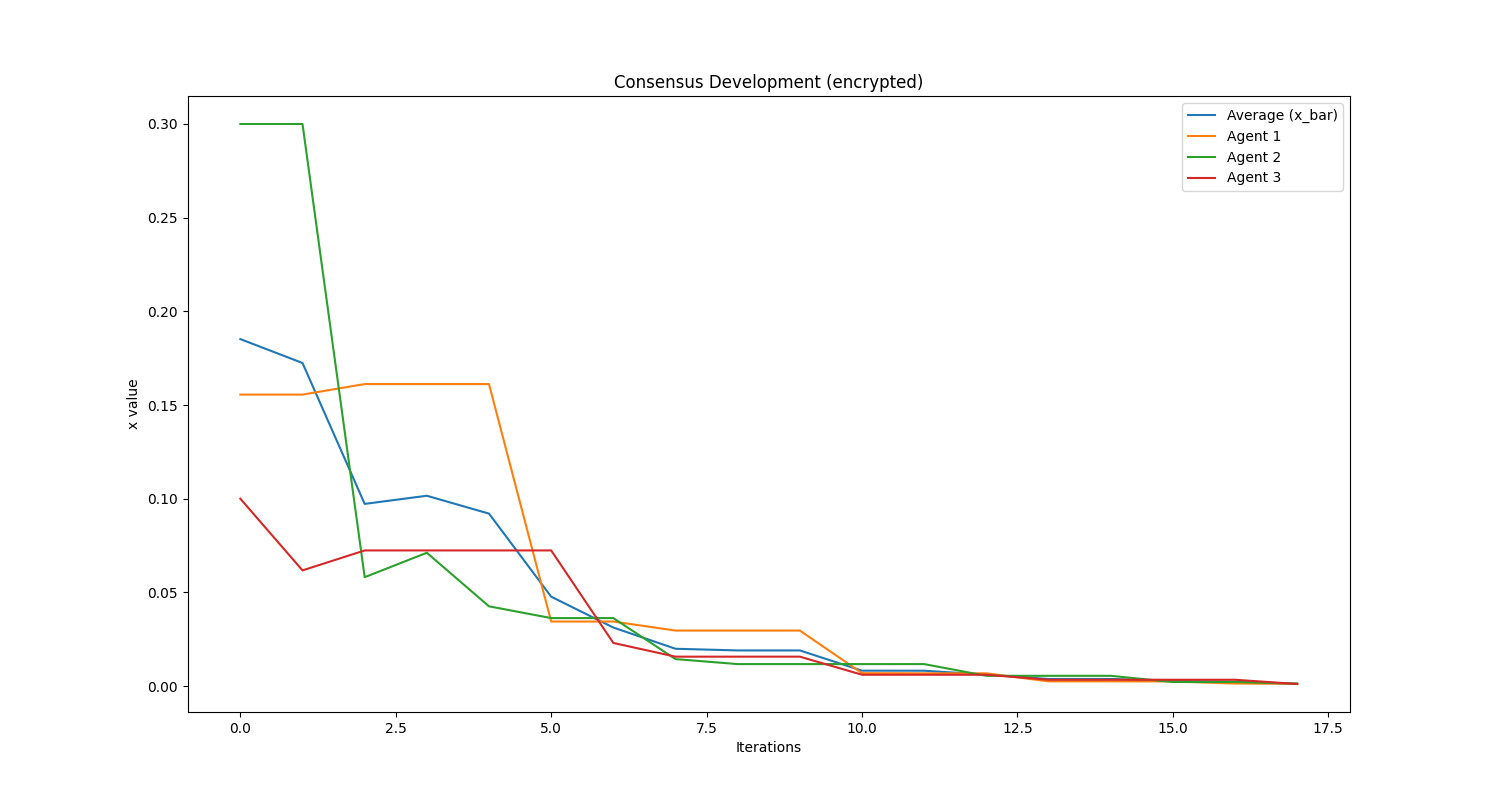
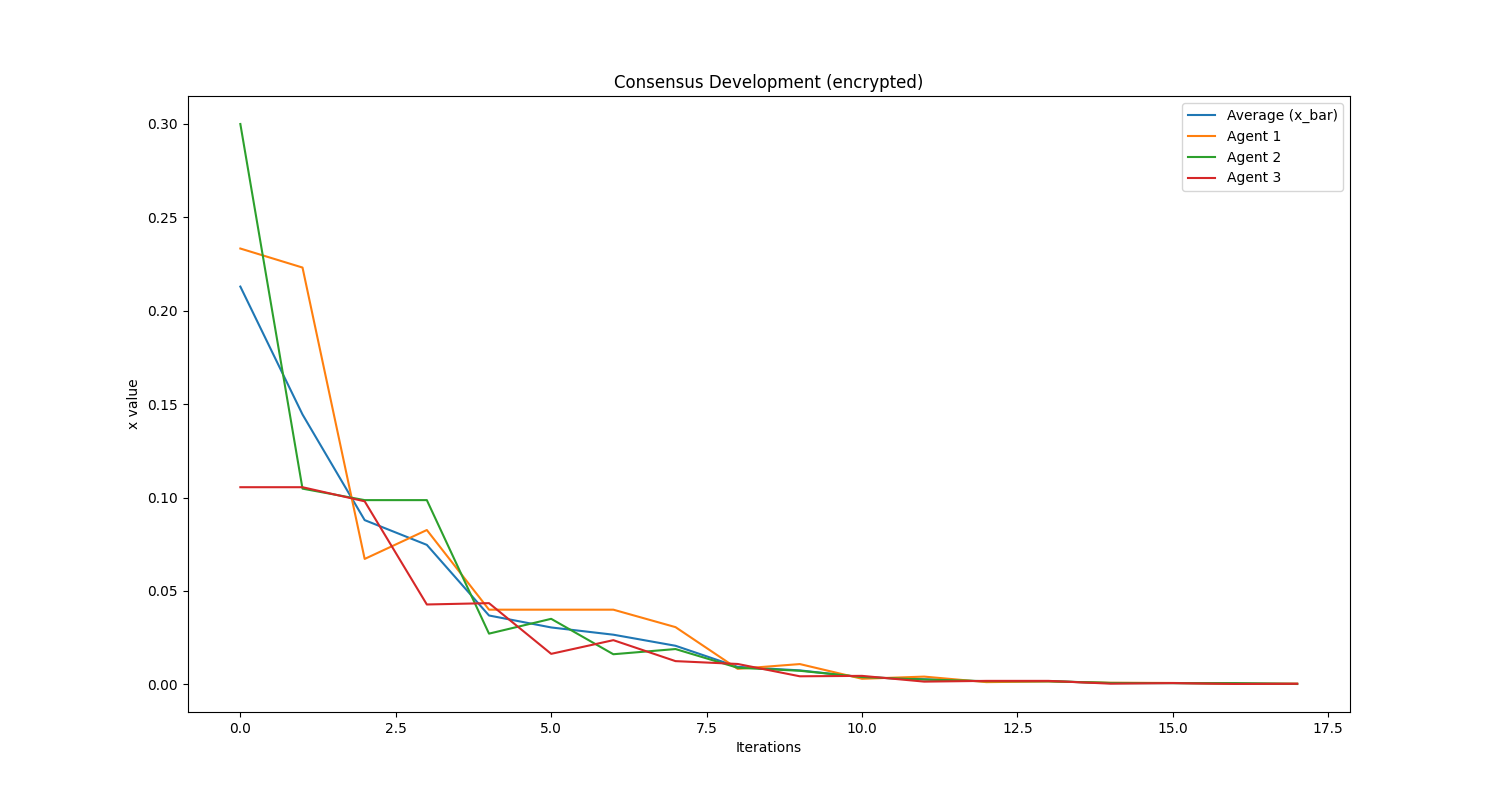
finished the experiment and added readme

diff --git a/main.py b/main.py
@@ -13,9 +13,42 @@ import random
 import matplotlib.pyplot as plt
 from phe import paillier
 from sympy import Symbol, solve
+from modules.ot.ot import *
+
+
+class RandomNumberGenerator:
+
+    user_count = None
+
+    def __init__(self, user_count: int):
+        self.user_count = user_count
+        values = []
+
+        # Generate random numbers that sum to zero
+        # sam = random.sample(range(-10, 10), k=self.user_count - 1)
+        # vals = sam + [-sum(sam)]
+
+        for val in range(self.user_count):
+            values.append(bytes("{:2f}".format(random.random()), encoding='utf8'))
+        if len(values) > 0:
+            self.alice = Alice(values, 1, len(values[0]))
+            self.alice.setup(file_name=os.path.join(os.getcwd(), 'secret', 'alice_setup.json'))
+        else:
+            raise ValueError("The user count has to be a positive number")
+
+    def transmit_data(self):
+        for user_id in range(self.user_count):
+            self.alice.transmit(
+                file_name=os.path.join(os.getcwd(), 'secret', 'mss_{:d}.json'.format(user_id)),
+                bob_file_name=os.path.join(os.getcwd(), 'secret', 'bob_{}_setup.json'.format(user_id))
+            )
 
 
 class Agent:
+
+    # Identifier of this agent
+    id_stack = 0
+    ident = None
 
     # State and average (for consensus)
     x = None
@@ -27,18 +60,35 @@ class Agent:
     # Parameter of the problem
     q = None
 
+    # Initialize bob
+    bob = None
+
     # Encryption keys
     private_key = None
     public_key = None
     trusted_party_key = None
 
-    def __init__(self, value, q):
+    def __init__(self, value, q, obscure_value: bool = False):
 
         # Attributes of the agent
         self.x = value
         self.x_bar = 0
         self.u = 0
         self.q = q
+
+        # Save initial computation step
+        self.is_initial = True
+
+        # Give id and increment
+        self.ident = Agent.id_stack
+        Agent.id_stack += 1
+
+        # Check if OT to random should be initialized
+        if obscure_value:
+            bob_file = os.path.join(os.getcwd(), 'secret', 'bob_{}_setup.json'.format(self.ident))
+            alice_file = os.path.join(os.getcwd(), 'secret', 'alice_setup.json')
+            self.bob = Bob([self.ident])
+            self.bob.setup(alice_file_name=alice_file, file_name=bob_file)
 
     def establish_encryption(self, public_key):
 
@@ -66,6 +116,12 @@ class Agent:
         # Get the average value
         x_bar = get_xbar(self)
 
+        # Receive a number from the random number generator to obscure this value
+        if self.bob is not None:
+            obscure_number = float(self.bob.receive(alice_file_name=os.path.join(os.getcwd(), 'secret', 'mss_{}.json'.format(self.ident)))[0])
+        else:
+            obscure_number = 0
+
         # Updates the x bar value
         self.x_bar = x_bar if self.private_key is None else self.private_key.decrypt(x_bar)
 
@@ -82,6 +138,13 @@ class Agent:
 
         # Laura's hint (much easier than computing everytime)
         x_next = rho / (self.q + rho) * (self.x_bar - self.u)
+
+        # Add the obscure number to the value
+        if self.is_initial:
+
+            # Add one time pad to the number
+            x_next += obscure_number
+            self.is_initial = False
 
         # Simulate different speeds and delays in the bus-system (usually parallel processing)
         if random.random() > 0.2:
@@ -102,6 +165,10 @@ class Agent:
             return self.trusted_party_key.encrypt(float(self.x))
         return self.x
 
+    @staticmethod
+    def reset_agent_ids():
+        Agent.id_stack = 0
+
 
 class TrustedParty:
 
@@ -114,6 +181,9 @@ class TrustedParty:
     x_bar_store = None
     duration_store = None
 
+    # Remember whether random number generator and OT is used as well
+    include_rng = None
+
     # The start time of the consensus process
     start_time = None
 
@@ -121,12 +191,15 @@ class TrustedParty:
     public_key = None
     private_key = None
 
-    def __init__(self, initial_values: list, encrypted: bool = False):
+    def __init__(self, initial_values: list, encrypted: bool = False, include_rng: bool = False):
 
         # Setup the storage lists
         self.state_store = []
         self.x_bar_store = []
         self.duration_store = []
+
+        # Save information about usage of RNG and OT for later
+        self.include_rng = include_rng
 
         # Generate public and private key (or leave none if desired)
         key_tuple = paillier.generate_paillier_keypair() if encrypted else (None, None)
@@ -138,7 +211,7 @@ class TrustedParty:
         for setup in initial_values:
 
             # Create a new agent
-            new_agent = Agent(value=setup['x'], q=setup['q'])
+            new_agent = Agent(value=setup['x'], q=setup['q'], obscure_value=include_rng)
 
             # Create an agent and append it to the records
             self.agents.append(new_agent)
@@ -235,18 +308,34 @@ class Experiment:
     # The number of experiment that has been run
     experiment_number = None
 
+    # Random number generator (if agents don't trust trusted party)
+    rng = None
+
     def __init__(self):
 
         # Initialize the number of experiments
         self.experiment_number = 1
 
-    def run_experiment(self, initial_values, max_iters: int = 20, encrypted: bool = False):
+    def run_experiment(self, initial_values, max_iters: int = 20, encrypted: bool = False, include_rng: bool = False):
 
         # Tell user about current step
         print("\n––––––––––\nStarted Experiment\nSetting up the trusted party and the agents ...")
 
+        # Reset the agent's ids
+        Agent.reset_agent_ids()
+
+        # Setup random number generator if usage is desired
+        if include_rng:
+
+            # Initialize a random number generator
+            self.rng = RandomNumberGenerator(len(initial_values))
+
         # Create instances that interact with each other
-        self.trusted_party = TrustedParty(initial_values, encrypted=encrypted)
+        self.trusted_party = TrustedParty(initial_values, encrypted=encrypted, include_rng=include_rng)
+
+        # Transmit data via OT if all setup
+        if include_rng:
+            self.rng.transmit_data()
 
         # Perform ADMM steps
         for i in range(max_iters):
@@ -274,4 +363,7 @@ agents_setup = [{'x': 1, 'q': 1}, {'x': 0.3, 'q': 1}, {'x': 0.1, 'q': 1}]
 experiment.run_experiment(agents_setup, max_iters=18, encrypted=False)
 
 # Run the encrypted experiment
-# experiment.run_experiment(agents_setup, max_iters=18, encrypted=True)
+experiment.run_experiment(agents_setup, max_iters=18, encrypted=True)
+
+# Run the encrypted experiment where also the agent does not trust the trusted party
+experiment.run_experiment(agents_setup, max_iters=18, encrypted=True, include_rng=True)

diff --git a/modules/ot/ot.py b/modules/ot/ot.py
@@ -1,10 +1,10 @@
 import rsa
 from hashlib import sha256
 from itertools import combinations
-from json_stuff import *
+from .json_stuff import *
 from random import SystemRandom
-from next_prime import next_prime
-from mulinv import mulinv
+from .next_prime import next_prime
+from .mulinv import mulinv
 
 RSA_bits = 512
 

diff --git a/README.md b/README.md
@@ -13,6 +13,64 @@ Results of the experiments in terms of figures are opened while the experiment r
 messages will also appear in the CLI for better understanding. The figures are saves in 
 the location `/figrues/*`.
 
+### Running Experiments
+
+At the bottom of `main.py`, you will find three experiment function calls that look like
+the following. You can simple comment in our out what experiment you want to run. The
+parameter `include_rng` stands for `RandomNumberGenerator` and introduces the third party
+which sends random numbers for 1-time pad to the agents via OT.
+
+```python
+# Create an experiment
+experiment = Experiment()
+
+# Create a variable with the agents configuration
+agents_setup = [{'x': 1, 'q': 1}, {'x': 0.3, 'q': 1}, {'x': 0.1, 'q': 1}]
+
+# Run the plaintext experiment
+experiment.run_experiment(agents_setup, max_iters=18, encrypted=False)
+
+# Run the encrypted experiment
+experiment.run_experiment(agents_setup, max_iters=18, encrypted=True)
+
+# Run the encrypted experiment where also the agent does not trust the trusted party
+experiment.run_experiment(agents_setup, max_iters=18, encrypted=True, include_rng=True)
+```
+
+When running (e.g. here, the third experiment) the experiments, you will see console output
+which indicates what is currently happening. 
+
+```commandline
+Started Experiment
+Setting up the trusted party and the agents ...
+Pubkey and hashes published.
+Polynomial published.
+Polynomial published.
+Polynomial published.
+G has been published.
+G has been published.
+G has been published.
+Computing Step 0/18 ...
+Computing Step 1/18 ...
+Computing Step 2/18 ...
+Computing Step 3/18 ...
+Computing Step 4/18 ...
+Computing Step 5/18 ...
+Computing Step 6/18 ...
+Computing Step 7/18 ...
+Computing Step 8/18 ...
+Computing Step 9/18 ...
+Computing Step 10/18 ...
+Computing Step 11/18 ...
+Computing Step 12/18 ...
+Computing Step 13/18 ...
+Computing Step 14/18 ...
+Computing Step 15/18 ...
+Computing Step 16/18 ...
+Computing Step 17/18 ...
+Experiment 1 took 58.31 s
+```
+
 ### Results of Experiments
 
 We ran experiments on consensus problems with encrypted and not-encrypted communication 
@@ -22,4 +80,31 @@ arise from a simulation of different clock speeds. The agents update their value
 `random.random() > 0.5`, thus also not updating in some iterations. This way, we also 
 model more real-world conditions.  
 
+#### Experiment 1
 ![Experiment Outcome (not encrypted)](figures/experiment_outcome_consensus_1.png)
+![Experiment Outcome (not encrypted)](figures/experiment_outcome_duration_1.png)
+
+The update of the agents internal state `x_i` is only done with a 80% probability
+to also model real conditions where messages might be delayed sometime or don't get
+delivered at all. A proper way would have been to use `threading` to let them run 
+in parallel but we took this approach. 
+
+#### Experiment 2
+![Experiment Outcome (not encrypted)](figures/experiment_outcome_consensus_2.png)
+![Experiment Outcome (not encrypted)](figures/experiment_outcome_duration_2.png)
+
+Clearly, the introduction of Pallier encryption in the second experiment boosted the
+duration of the experiment. In the first experiment, the setup (and allocation of memory)
+took longest, while in the second experiment we see much more activity in the 
+computation of the consensus problem.
+
+#### Experiment 3
+![Experiment Outcome (not encrypted)](figures/experiment_outcome_consensus_3.png)
+![Experiment Outcome (not encrypted)](figures/experiment_outcome_duration_3.png)
+
+In the third experiment, also introduce OT and another party, the RandomNumberGenerator
+that produces a vector of random numbers for a 1-time pad for the agents internal value
+to obscure it and not show it to the (now also untrusted) trusted party. We see a further
+delay in the setup (generation of hashes etc.) of OT. In the computation, the duration
+is a about the same. However, Experiment 2 took about `40s` and Experiment 3 took about `1 min`
+which makes the differences visible. 
